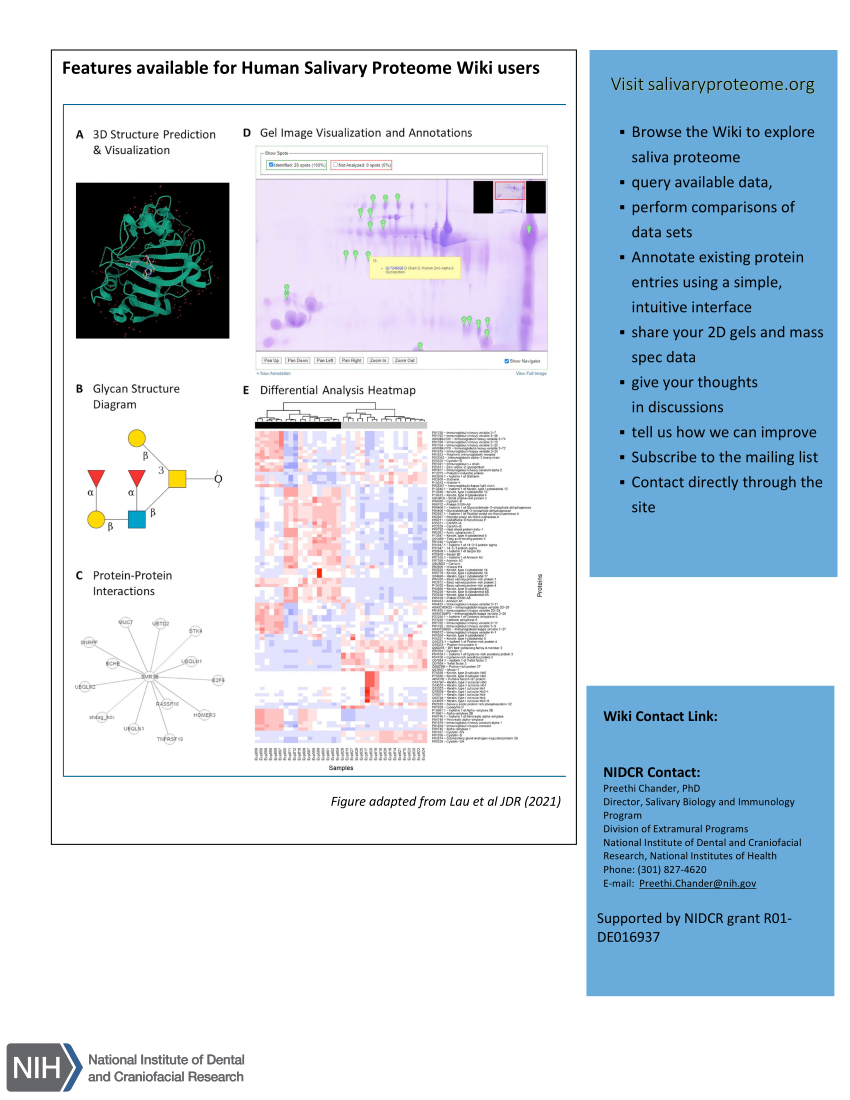
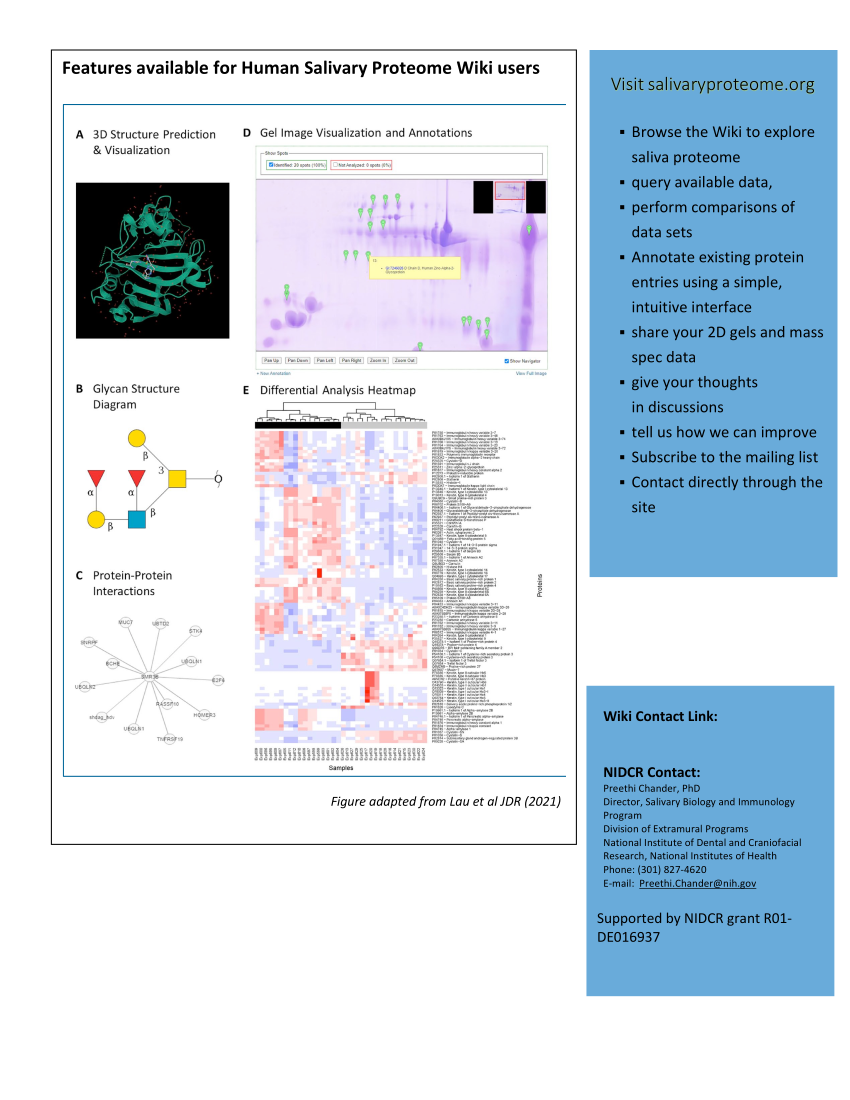
Fixed typo and updated flyer images

Changed region(s): [[0.0, 0.9273, 0.3059, 1.0]]

diff --git a/src/pages/Help/About.js b/src/pages/Help/About.js
@@ -217,7 +217,7 @@ const About = () => {
                   color: "black",
                 }}
               >
-                HSP 1.0 Highlights
+                HSP Wiki 1.0 Highlights
               </Typography>
               <div
                 style={{
